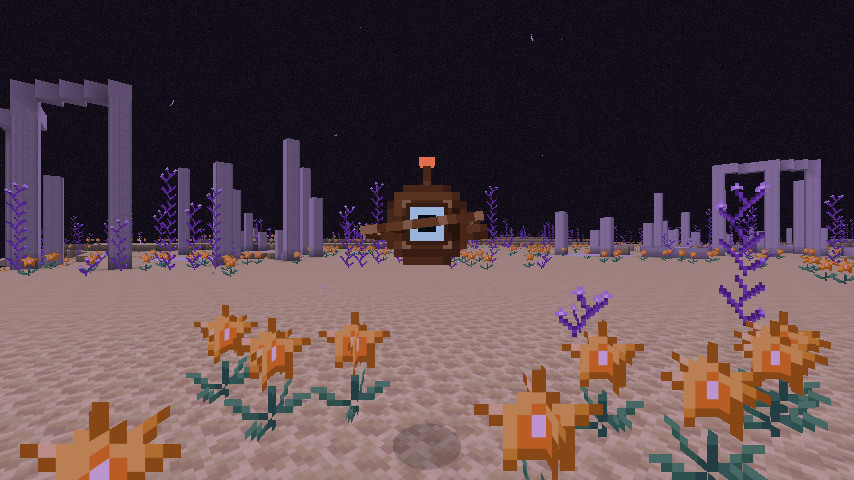
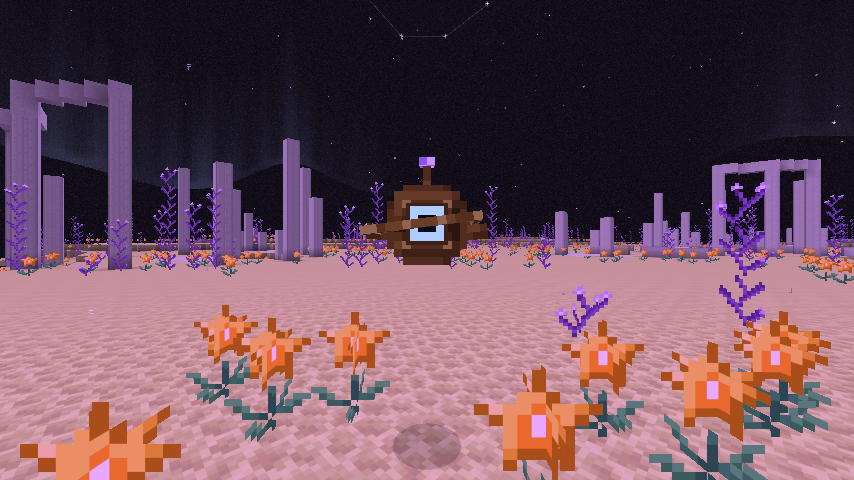
Phase 9 docs: the bronze family, the refreshed Orrery and Wanderer pictures; last station names gone
Claude-Session: https://claude.ai/code/session_0155WfD2TeFRTvCBedvK2Yiv

diff --git a/src/main/java/com/ggrantrichards/astralend/dev/WorldgenSurvey.java b/src/main/java/com/ggrantrichards/astralend/dev/WorldgenSurvey.java
@@ -497,9 +497,9 @@ public final class WorldgenSurvey {
     }
 
     // An Orrery: its Sentinel sleeps (and can't be hurt) until the Orrery Heart is powered; then
-    // the vault's bronze_shutters open and the Sentinel wakes. Then a view of the station from outside, and one
+    // the vault's bronze_shutters open and the Sentinel wakes. Then a view of the Orrery from outside, and one
     // of the Sentinel in its open vault.
-    private static void testStation(ServerLevel end, BlockPos core, List<String> failures) {
+    private static void testOrrery(ServerLevel end, BlockPos core, List<String> failures) {
         var sentinels = end.getEntitiesOfClass(com.ggrantrichards.astralend.entity.OrrerySentinel.class,
             new net.minecraft.world.phys.AABB(core).inflate(32, 16, 32));
         boolean hurtAsleep = !sentinels.isEmpty() && sentinels.get(0).hurtServer(end, end.damageSources().generic(), 5.0F);
@@ -685,9 +685,9 @@ public final class WorldgenSurvey {
                     found.put("maze_tested", marker);
                     testMaze(end, marker, failures);
                 }
-                if (w.name().equals("abandoned_orrery") && !found.containsKey("station_tested")) {
-                    found.put("station_tested", marker);
-                    testStation(end, marker, failures);
+                if (w.name().equals("abandoned_orrery") && !found.containsKey("orrery_tested")) {
+                    found.put("orrery_tested", marker);
+                    testOrrery(end, marker, failures);
                 }
                 if (w.name().equals("solar_array")) {
                     // Inside the control room too: the console, seen from a corner of the room.

diff --git a/tools/textures/structure_textures.py b/tools/textures/structure_textures.py
@@ -222,7 +222,7 @@ ANIMATED = [
 
 
 # ------------------------------------------------------------------ Batch D: the Orrery
-# Orrery Bronze: the Cartographers' station metal. A plate engraved with orbits, like the face of an
+# Orrery Bronze: the metal the Cartographers built their orreries from. A plate engraved with orbits, like the face of an
 # orrery; it tarnishes violet with age (three stages, like copper's), and an axe scrapes it back.
 OB_BRONZE = [hexc("4a2c16"), hexc("74471f"), hexc("9c6630"), hexc("c48a45"), hexc("e3b062"), hexc("fbe0a0")]
 OB_TARNISH = [hexc("3a2a52"), hexc("54407a"), hexc("6f5a9c"), hexc("8f7bbd"), hexc("b4a3db")]
@@ -350,7 +350,7 @@ def bronze_shutter():
 
 
 def _lamp(lit):
-    """A station lamp: a frosted pane in a bronze frame - grey-violet and dead, or warm and bright."""
+    """An Orrery Lamp: a frosted pane in a bronze frame - grey-violet and dead, or warm and bright."""
     img = new()
     pane = ramp("fff2c8", "ffd27a", 4) if lit else ramp("3a3448", "5a5270", 4)
     for y in range(SIZE):

diff --git a/tools/textures/flare_textures.py b/tools/textures/flare_textures.py
@@ -1,5 +1,5 @@
 """Textures for Phase 5 (Stellar Flares): the Flarebloom shut and open, charged Sunscale Lichen,
-the Sunshade, the Collector Pedestal, flare cells, Charged Void Crystal, Flare Pollen and the Flare
+the Sunshade, the Collector Pedestal, Flare Bottles, Charged Void Crystal, Flare Pollen and the Flare
 Ward effect icon. Imported by hq.py, which adds them to its TEXTURES list."""
 import math
 from pathlib import Path
